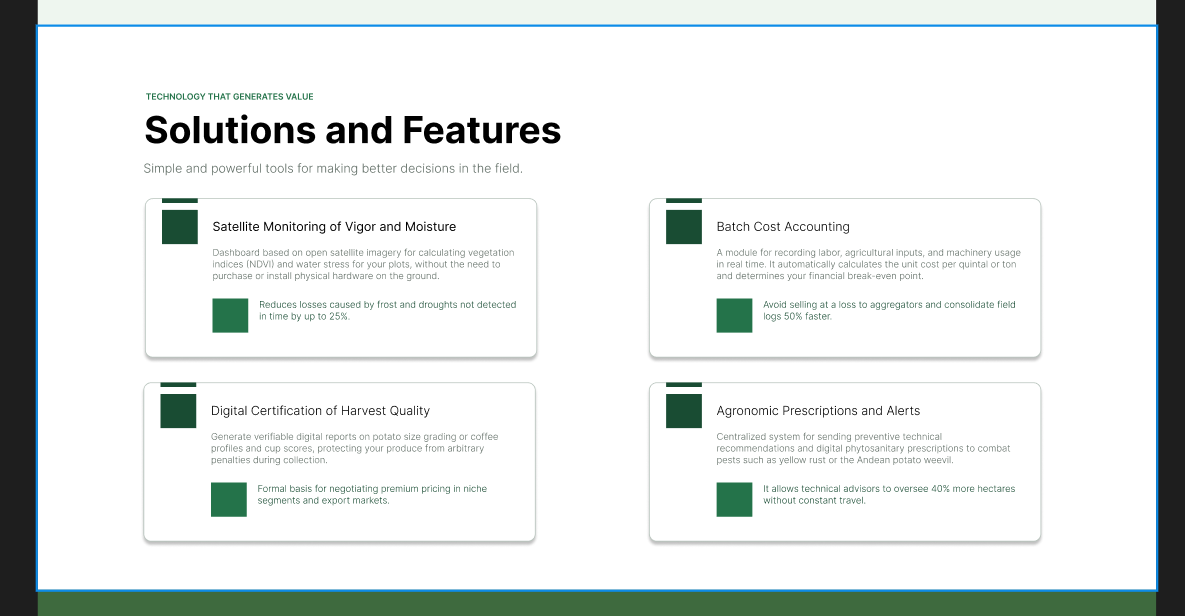
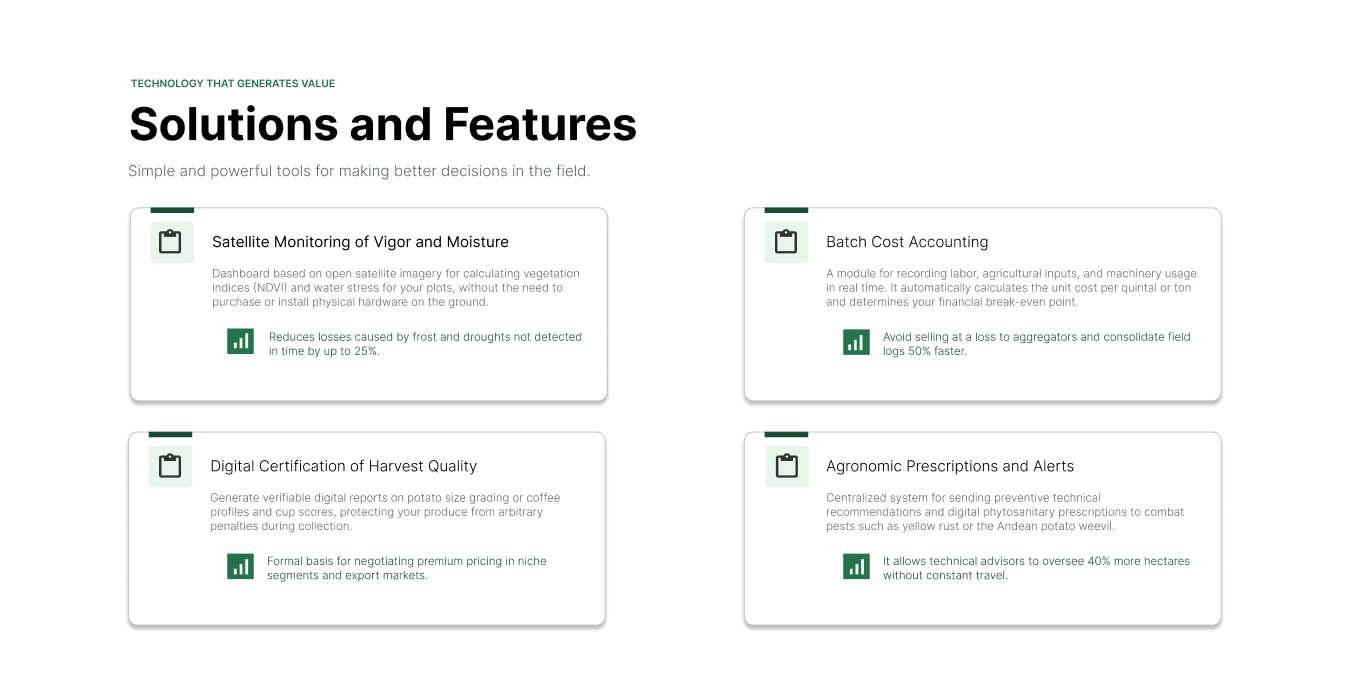
docs(cap4): update landing page sections mockups and content

Changed region(s): [[0.0937, 0.0925, 0.4684, 0.9253], [0.0, 0.0, 1.0, 1.0], [0.5308, 0.2776, 0.9055, 0.9253]]

diff --git a/report/40-chapter-4-design.md b/report/40-chapter-4-design.md
@@ -688,6 +688,18 @@ Presenta un diseño limpio sobre fondo blanco dividido en dos columnas. A la izq
 
 ![mockup-about-us.png](assets/img/chapter-4/landing-page/mock-up/desktop/mockup-about-us.png)
 
+**Who do we help? — SumaqAgro**
+
+Presenta el antetítulo en verde "OUR COMMUNITY", el encabezado principal "Who do we help?" y el mensaje de valor "We work with those who make the country's food security possible". En la zona inferior dispone tres tarjetas blancas con esquinas redondeadas orientadas a cada segmento clave: agricultores independientes, directivos de cooperativas y asesores técnicos. Cada tarjeta integra un ícono representativo, un resumen de enfoque, una fotografía de campo alusiva y el enlace de acción "Join as an advisor →".
+
+![mockup-who-do-we-help.png](assets/img/chapter-4/landing-page/mock-up/desktop/mockup-who-do-we-help.png)
+
+**Solutions and Features — SumaqAgro**
+
+Presenta el encabezado "Solutions and Features" acompañado del lema de valor para la toma de decisiones en campo. En una cuadrícula de cuatro tarjetas blancas con acentos verdes, detalla sus módulos clave: monitoreo satelital de vigor y humedad, costeo por lote, certificación digital de cosecha y alertas agronómicas, destacando en cada una sus métricas de impacto operativo y económico.
+
+![mockup-solutions-and-features.png](assets/img/chapter-4/landing-page/mock-up/desktop/mockup-solutions-and-features.png)
+
 ## 4.4. Web Applications UX/UI Design
 
 Esta sección presenta y sustenta la arquitectura de interacción y el diseño visual de la plataforma SaaS de SumaqAgro, desarrollada por la startup Dymbia.
